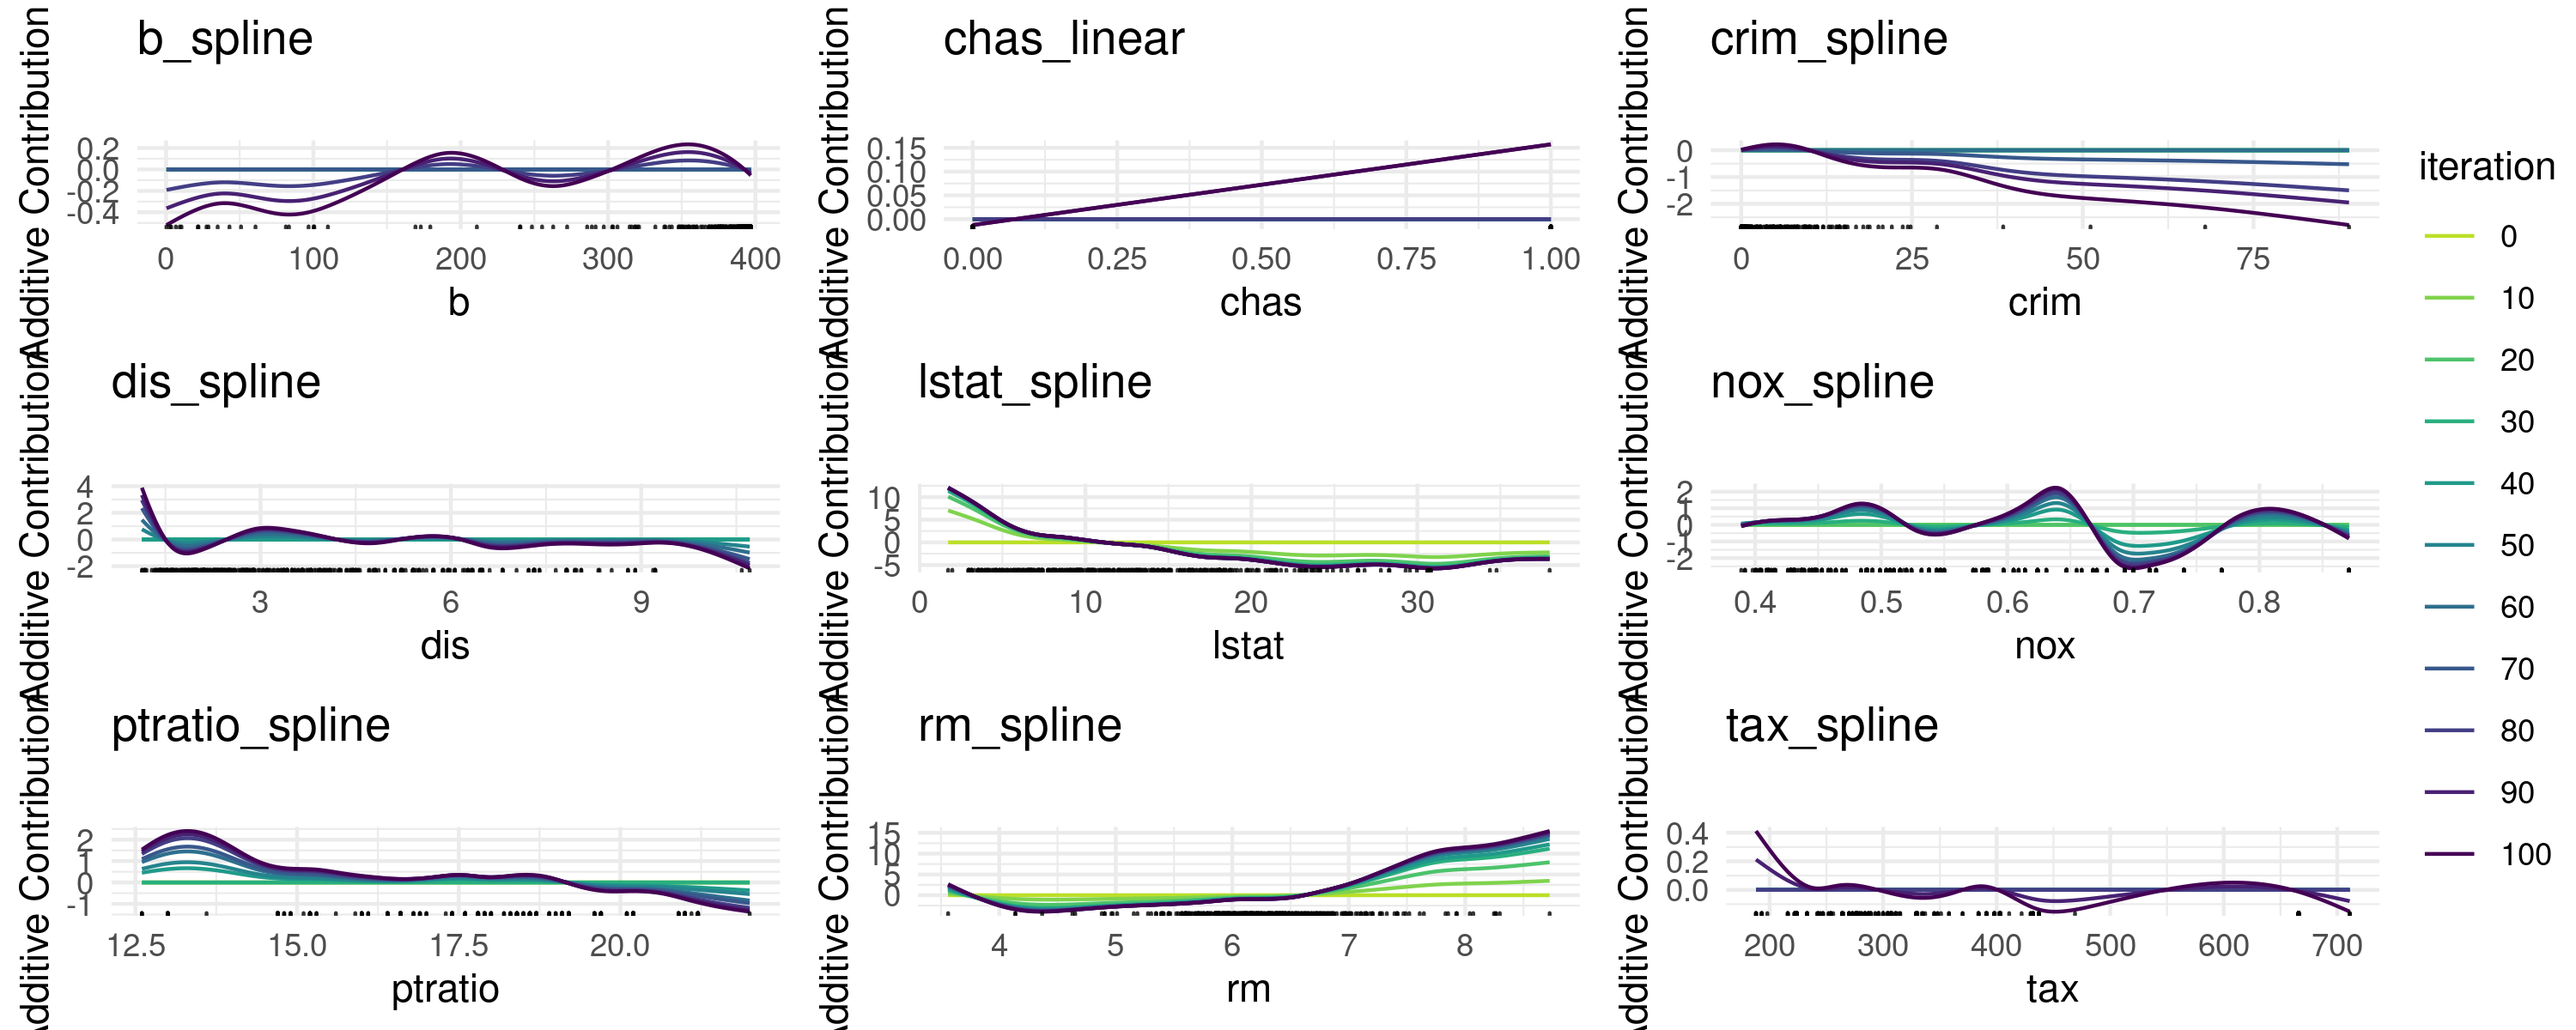
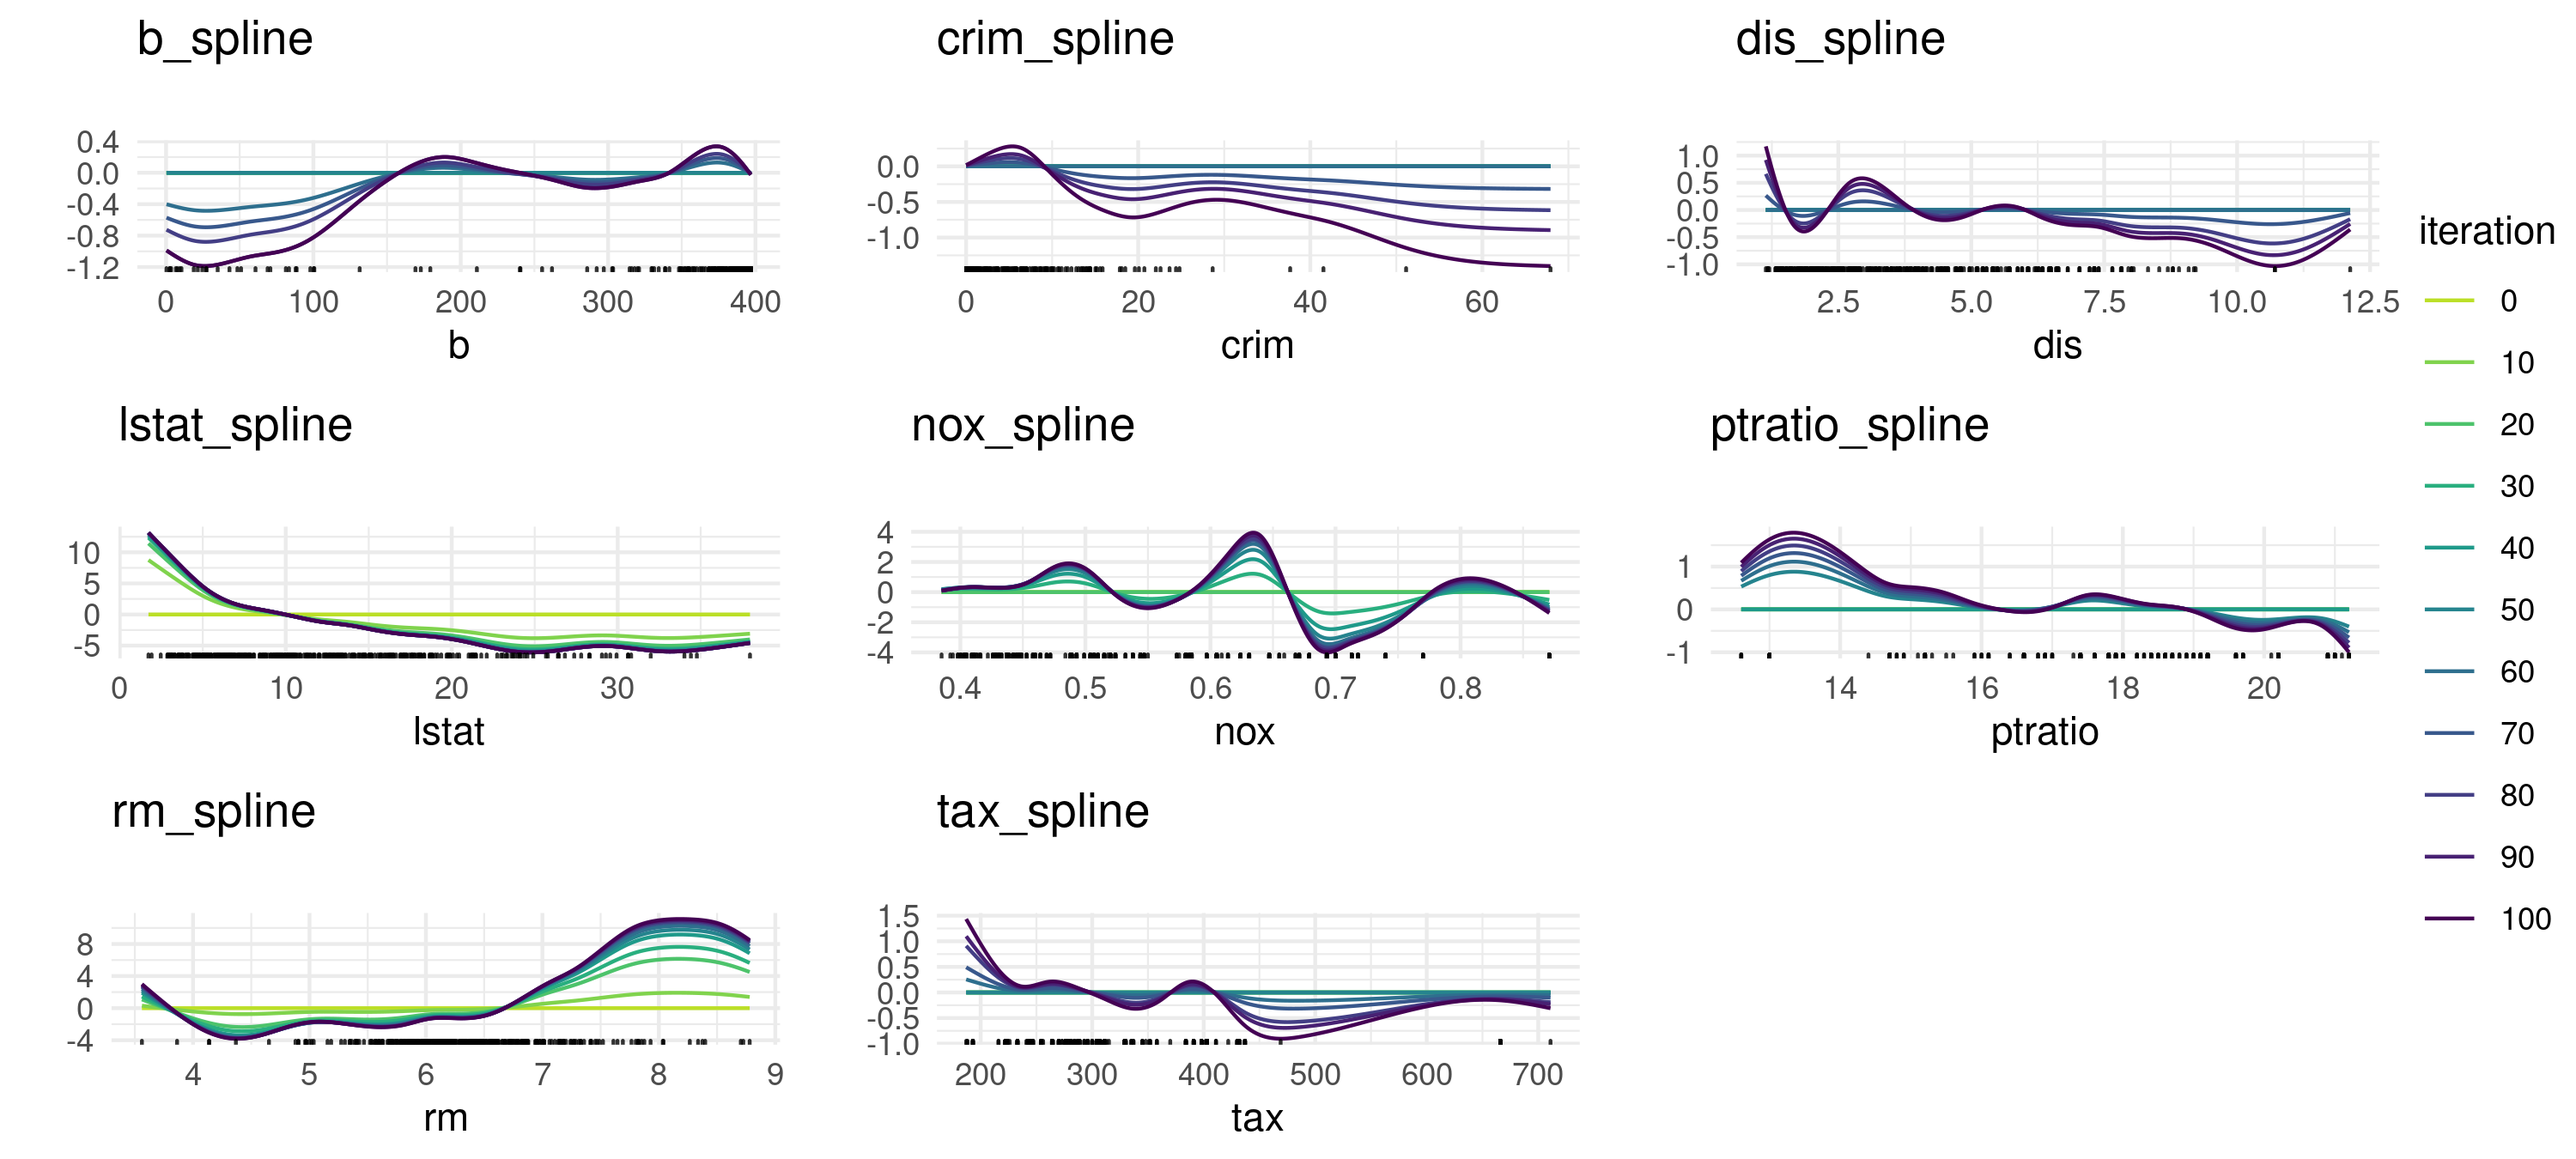
worked on compboost example

diff --git a/slides/boosting/slides-boosting-comp-boost.tex b/slides/boosting/slides-boosting-comp-boost.tex
@@ -5,7 +5,7 @@
 \input{../../latex-math/ml-boosting.tex}
 \input{../../latex-math/ml-trees.tex}
 
-\newcommand{\titlefigure}{figure_man/componentwise-gb.png}
+\newcommand{\titlefigure}{figure/compboost-illustration-2.png}
 \newcommand{\learninggoals}{
   \item Learn the concept of componentwise boosting and its relation to GLM
   \item Understand the built-in feature selection process
@@ -176,33 +176,49 @@ $\rightarrow$ post-selection inference.
 
 % ------------------------------------------------------------------------------
 
-\begin{vbframe}{example: feature selection for titanic}
+\begin{vbframe}{example: boston housing}
 
-\small
-Consider the \texttt{titanic} data, for which we fit a componentwise gradient 
-boosting model with linear base learners, using the R package \texttt{compboost} 
-with $M = 200$, to predict passengers' survival.
-We can visualize the updates of the $\theta_j$ over time to see which base 
-learner was selected when.
+\begin{minipage}[c]{0.4\textwidth}
+  \small
+  \raggedright
+  Consider the \texttt{Boston housing} regression task, for which we fit a 
+  CWB model with linear base learners to predict the median home value.
+  Using the \texttt{compboost} package with $M = 100$ iterations, we can 
+  visualize which base learner was selected when:
+\end{minipage}%
+\begin{minipage}[c]{0.05\textwidth}
+  \phantom{foo}
+\end{minipage}%
+\begin{minipage}[c]{0.55\textwidth}
+  \tiny
+  \begin{tabular}{l|l}
+    \textbf{variable} & \textbf{description} \\
+    \hline
+    medv &	median value of owner-occupied homes in k USD \\
+    \hline
+    crim & per capita crime rate by town \\
+    zn &	proportion of residential land zoned for lots $>$ 25k sq.ft \\
+    indus &	proportion of non-retail business acres per town \\
+    chas &	Charles River dummy (1 if tract bounds river, 0 otherwise) \\
+    nox &	nitric oxides concentration (parts per 10m) \\
+    rm &	average number of rooms per dwelling \\
+    age &	proportion of owner-occupied units built prior to 1940 \\
+    dis &	weighted distances to five Boston employment centres \\
+    rad &	index of accessibility to radial highways \\
+    tax &	full-value property-tax rate per USD 10k \\
+    ptratio &	pupil-teacher ratio by town \\
+    b &	$1000(B - 0.63)^2$,  $B$ as proportion of blacks by town \\
+    lstat &	percentage of lower status of the population \\
+  \end{tabular}
+\end{minipage}%
 
 \vfill
 
 \begin{center}
 \includegraphics[width = \textwidth]{figure/compboost-illustration-1.png}
-% \includegraphics[width=0.9\textwidth]{figure_man/componentwise-gb.png}
 \end{center}
 
-\vfill
-
-\small
-New variables are added cautiously, yielding a rather parsimonious model.
-Being male and/or traveling in the bottom class clearly bodes ill for surival.
-
 \framebreak
-
-% ------------------------------------------------------------------------------
-
-
 
 % ------------------------------------------------------------------------------
 
@@ -211,7 +227,7 @@ number of total iterations $M$.
 
 \vfill
 
-$\rightarrow$ A sparse logistic regression is fitted.
+$\rightarrow$ A sparse linear regression is fitted.
 
 \vfill
 
@@ -223,15 +239,16 @@ $\rightarrow$ A sparse logistic regression is fitted.
 
 \begin{vbframe}{Nonlinear base learners}
 
-Nonlinear base learners like $P$- or $B$-splines make the model equivalent to a
-\textbf{generalized additive model (GAM)}, as long as the base learners keep 
-their additive structure (which is the case for splines).
+As an alternative we can use nonlinear base learners, such as $P$- or 
+$B$-splines, which make the model equivalent to a
+\textbf{generalized additive model (GAM)} (as long as the base learners keep 
+their additive structure, which is the case for splines).
 \vspace{0.5cm}
 
 \vfill
 
 \begin{center}
-\includegraphics[width=1\textwidth]{figure/bspline-basis.png}
+\includegraphics[width=0.9\textwidth]{figure/bspline-basis.png}
 \end{center}
 
 % \vfill
@@ -278,16 +295,16 @@ where
 
 % ------------------------------------------------------------------------------
 
-\begin{vbframe}{titanic example: continued}
+\begin{vbframe}{boston housing: continued}
 
 \begin{itemize}
   \small
   \item This time we offer our model both 
-  linear and nonlinear ($B$-spline) base learners for the numeric features.
-  \item By iteration 200, the model has selected 6 out of 16 features, 3 of 
-  which are categorical (concerning sex and passenger class).
-  \item For the 3 numeric ones, the model always picks the nonlinear option. 
-  We can trace how they evolve over the iterations:
+  linear and nonlinear ($P$-spline) base learners for the 13 features (all 
+  numeric).
+  \item By iteration 100, the model has selected 8 out of the resulting 26 base 
+  learners and consistently picked the nonlinear option.
+  We can trace how these spline predictors evolve over the iterations:
 \end{itemize}
 
 \vfill
